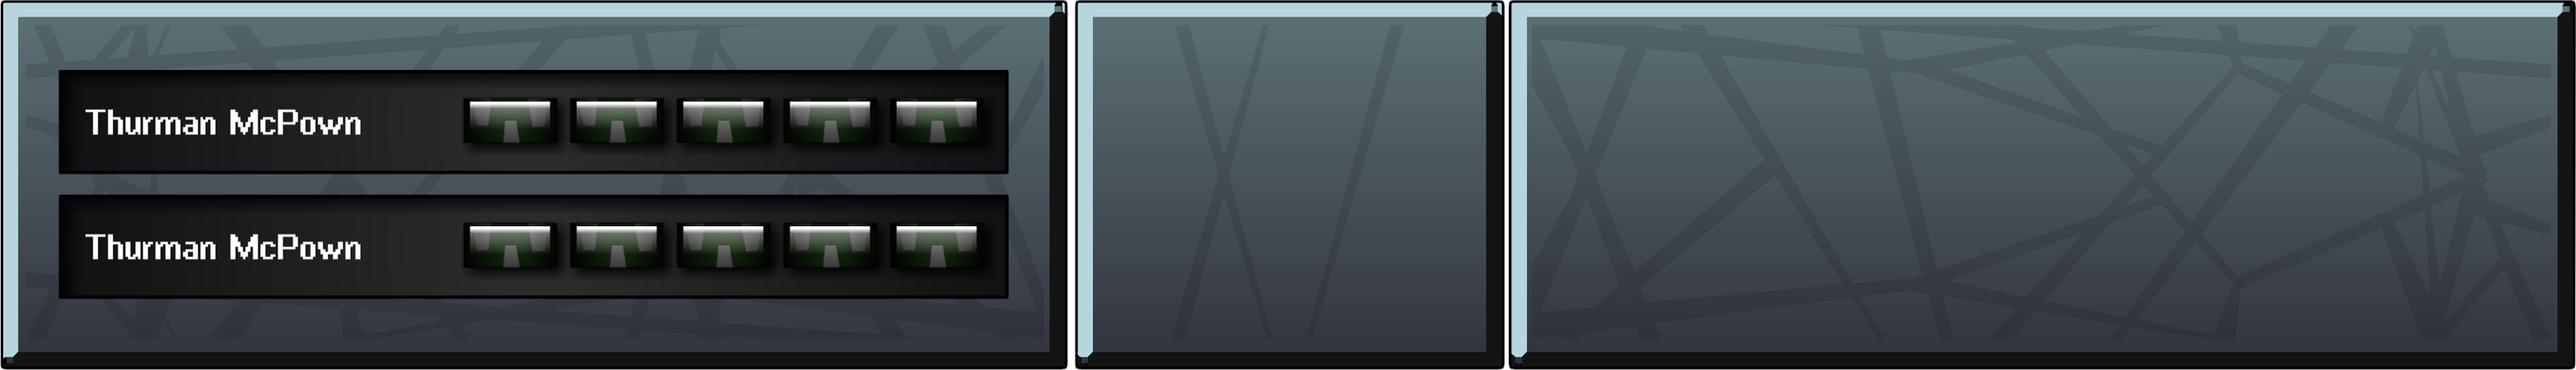
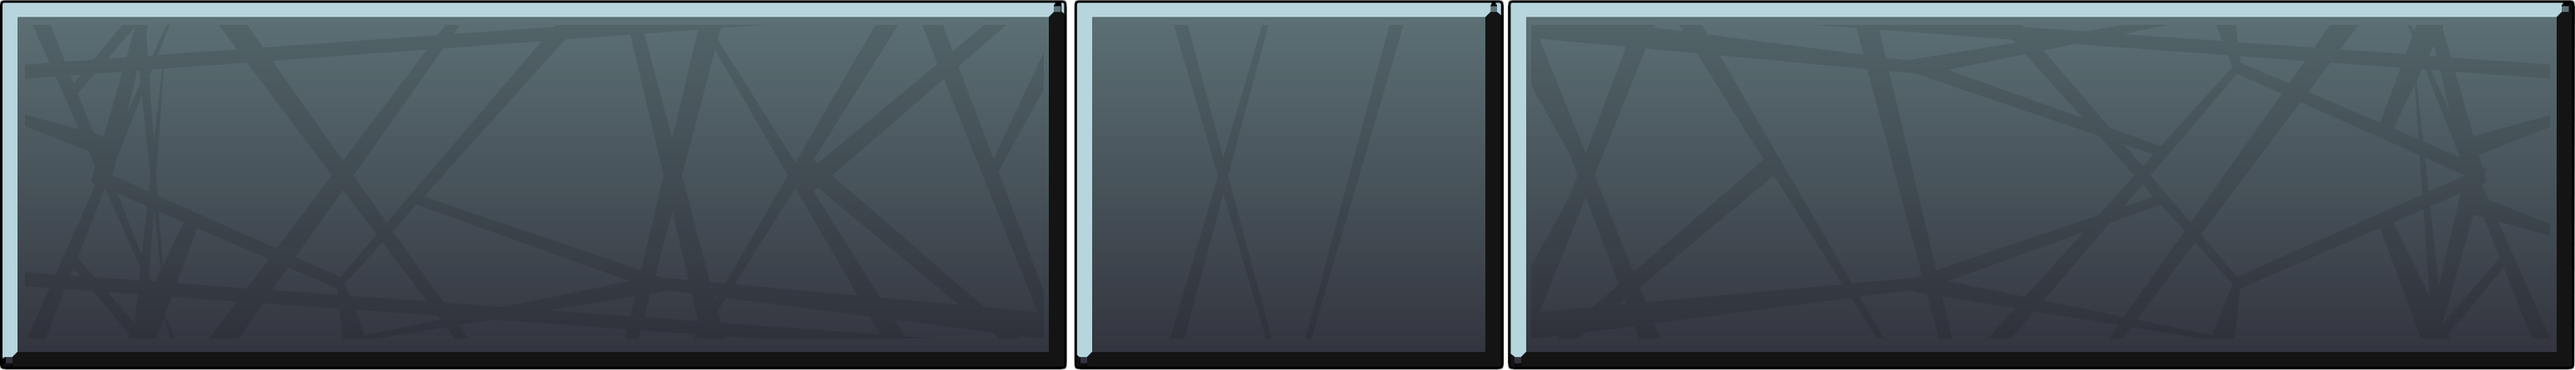
fix: render the battle bottom bar without the member bars

Changed region(s): [[0.0, 0.1753, 0.4038, 0.4966], [0.0, 0.5258, 0.4038, 0.818]]

diff --git a/dev/urchin_dev/swf/extract/battle_screen.py b/dev/urchin_dev/swf/extract/battle_screen.py
@@ -45,6 +45,12 @@ SKY_SPRITE = 3454
 # The character rig each hall label places six times, deleted so the halls
 # render as bare scene art.
 FIGHTER_RIG = 2676
+# The team member bar container, which 3317 places at depth 7. It holds two
+# copies of one member bar, each carrying the SWF author's placeholder name
+# "Thurman McPown" in a DefineEditText the game fills at runtime from
+# playerKrin<n>.playerName. Rendered as-is the bar bakes in two dead rows. The
+# port rebuilds them from scenes/battle/stance_row.tscn instead.
+MEMBER_BARS = 3312
 # These fill the window behind everything else, so they are rendered well above
 # the window's 2x default scale.
 ZOOM = 4.0
@@ -337,6 +343,7 @@ def main():
                 str(WEB_SWF),
                 str(stripped),
                 str(FIGHTER_RIG),
+                str(MEMBER_BARS),
             ]
         )
         print(f"halls ({len(halls)}):", file=sys.stderr)
@@ -352,14 +359,14 @@ def main():
             "halls": layout_rects(stripped, xml, HALL_SPRITE, halls),
             "skies": layout_rects(stripped, xml, SKY_SPRITE, skies),
         }
+        # The chrome renders from this same stripped copy. 2676 sits nowhere in
+        # the four chrome characters' trees so it changes nothing for them, and
+        # 3312 has to be gone or the bottom bar bakes in the member bars.
+        print(f"chrome ({len(CHROME)}):", file=sys.stderr)
+        render_chrome(stripped)
+        layout["chrome"] = chrome_rects(stripped, xml)
     finally:
         shutil.rmtree(work, ignore_errors=True)
-
-    # The chrome characters sit outside 2676, so the fighter-rig strip above
-    # never touches them and they render straight off the original SWF.
-    print(f"chrome ({len(CHROME)}):", file=sys.stderr)
-    render_chrome(WEB_SWF)
-    layout["chrome"] = chrome_rects(WEB_SWF, xml)
 
     LAYOUT_JSON.write_text(json.dumps(layout, indent=1, sort_keys=True) + "\n")
     print(f"wrote {LAYOUT_JSON}", file=sys.stderr)
